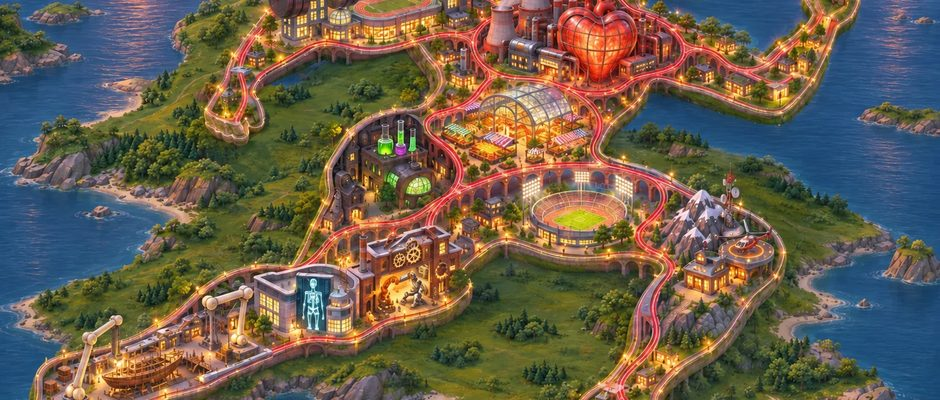
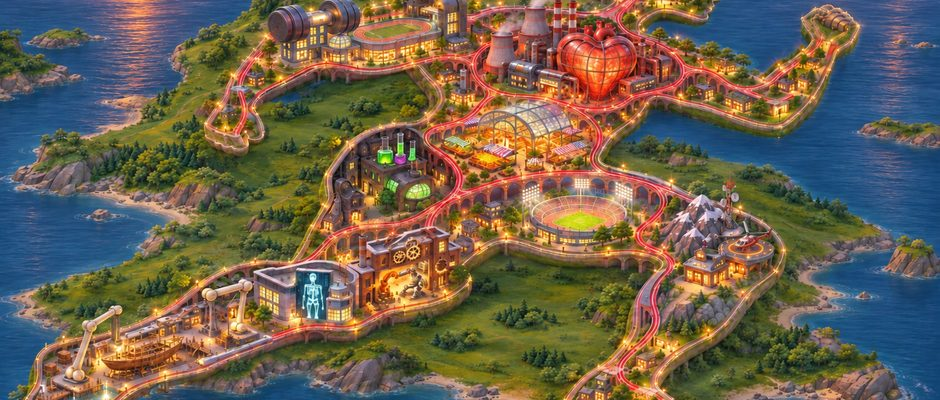
Athletopolis: neue Übersicht mit gemaltem Sonnenuntergang; Orte, Kamera-Ausschnitte und Effekte neu eingemessen
Claude-Session: https://claude.ai/code/session_01W7Q6Rn4idXUk77v555PfgU

diff --git a/sport/klasse9.html b/sport/klasse9.html
@@ -16,12 +16,12 @@
 /* Athletopolis – Sport-Welt Klasse 9. Koordinaten = Bildpunkte im 1536 × 1024-Bild.
    offen:true = ohne Freigabe-Code sichtbar. Themen: pfad = fertige Lernwelt, sonst „kommt bald“. */
 const ORTE = [
-  { id:"herz", name:"Herz-Kraftwerk", icon:"❤", einheit:"E1 · Herz-Kreislauf & Energie", x:965, y:262, crop:[770,115,350,233], veil:[165,115], offen:false,
+  { id:"herz", name:"Herz-Kraftwerk", icon:"❤", einheit:"E1 · Herz-Kreislauf & Energie", x:964, y:350, crop:[791,205,321,214], veil:[165,115], offen:false,
     text:"Hier schlägt das Herz der Stadt: Es pumpt Blut und Sauerstoff durch alle Adern-Bahnen.",
     themen:[{t:"Herz, Lungen- & Körperkreislauf", i:"🫀"},{t:"Energiewege & Herzfrequenz-Zonen", i:"⚡"},{t:"Was meine Pulskurve verrät", i:"📈"},{t:"Ausdauer macht das Herz stark", i:"🏃"}],
     fx:[["glow",900,600,330,"#FF5A3C","beat"],["glow",900,560,90,"#FFF0C0","beat"],["smoke",220,340,26],["smoke",480,165,30],["smoke",640,95,18],["smoke",750,95,18],
         ["water",[1230,190,1500,370],10],["water",[1270,910,1530,1020],6],["flies",[60,600,1480,1000],10]] },
-  { id:"werft", name:"Skelett-Werft", icon:"🦴", einheit:"E2 · Knochen & Gelenke", x:420, y:700, crop:[20,480,780,520], veil:[0,0], offen:true,
+  { id:"werft", name:"Skelett-Werft", icon:"🦴", einheit:"E2 · Knochen & Gelenke", x:420, y:733, crop:[27,505,776,517], veil:[0,0], offen:true,
     text:"In der Werft wird das Skelett gebaut: Röntgen-Klinik und Robo-Werkstatt. Tippe auf ein Gebäude.",
     themen:[
       {id:"kn9", t:"Knochen & Skelett", s:"Röntgen-Klinik", i:"🩻", pfad:"knochen.html", x:964, y:420, bild:"klinik",
@@ -32,41 +32,38 @@ const ORTE = [
         fx:[["sparks",[925,395,1025,475],14,"#FFF0A8"],["glow",975,432,60,"#FFE08A","flick"],["glow",860,520,240,"#FFA53C","pulse"],["smoke",765,90],["smoke",860,70],["smoke",945,125],["sun",190,95],["clouds",85],["water",[0,125,700,180],12],["flies",[60,700,1480,1000],8]]} ],
     fx:[["glow",964,400,120,"#5FE9FF","flick"],["glow",1300,330,110,"#FFA53C","pulse"],["sparks",[1240,250,1380,390],10,"#FFE08A"],["smoke",1150,150,16],
         ["water",[0,0,660,480],22],["water",[780,720,1536,1024],18],["water",[170,790,320,950],6],["flies",[300,250,1400,700],8]] },
-  { id:"stadion", name:"Flutlicht-Stadion", icon:"🏟", einheit:"E2 · Sportverletzungen & Ursachen", x:945, y:545, crop:[785,420,330,220], veil:[150,90], offen:false,
+  { id:"stadion", name:"Flutlicht-Stadion", icon:"🏟", einheit:"E2 · Sportverletzungen & Ursachen", x:943, y:594, crop:[785,471,329,220], veil:[150,90], offen:false,
     text:"Im Stadion passiert’s: Umknicken, Zerrung, Prellung. Hier ermittelst du, was verletzt ist und warum.",
     themen:[{id:"vl9", t:"Sportverletzungen & ihre Ursachen", s:"Lernwelt öffnen", i:"🩹", pfad:"verletzungen.html"}],
     fx:[["glow",390,300,150,"#FFF3C4","flick"],["glow",770,236,150,"#FFF3C4","flick"],["glow",1090,300,150,"#FFF3C4","flick"],["glow",760,580,260,"#FFF3C4","pulse"],["flies",[60,700,1480,1000],8]] },
-  { id:"bergwacht", name:"Bergwacht-Station", icon:"🚁", einheit:"E2 · Erste Hilfe & Vorbeugen", x:1185, y:605, crop:[1000,460,360,240], veil:[150,95], offen:false,
+  { id:"bergwacht", name:"Bergwacht-Station", icon:"🚁", einheit:"E2 · Erste Hilfe & Vorbeugen", x:1185, y:653, crop:[1000,510,360,240], veil:[150,95], offen:false,
     text:"Die Bergwacht ist zur Stelle: Erste Hilfe bei Sportverletzungen und wie du mit Aufwärmen vorbeugst.",
     themen:[{t:"Erste Hilfe & Vorbeugen", i:"⛑"}],
     fx:[["blink",784,40],["blink",800,120],["glow",74,90,140,"#FFF3C4","flick"],["glow",624,740,120,"#FFC65A","pulse"],["glow",944,560,80,"#FFC65A","pulse"],
         ["water",[1300,0,1536,250],10],["water",[1380,640,1536,960],8],["flies",[60,500,1300,1000],10]] },
-  { id:"muskel", name:"Muskel-Fitnesscenter", icon:"🏋", einheit:"E3 · Training & Fitness", x:590, y:195, crop:[400,50,390,260], veil:[200,95], offen:false,
+  { id:"muskel", name:"Muskel-Fitnesscenter", icon:"🏋", einheit:"E3 · Training & Fitness", x:588, y:283, crop:[398,140,389,260], veil:[200,95], offen:false,
     text:"Im Fitnesscenter wird trainiert: Belastung, Erholung und der eigene Trainingsplan.",
     themen:[{t:"Was ist Training? – Fitness messen", i:"⏱"},{t:"Superkompensation", i:"📊"},{t:"Trainingsprinzipien & -methoden", i:"🧩"},{t:"Mein Trainingsplan", i:"📝"},{t:"Hat mein Training gewirkt?", i:"🔁"}],
     fx:[["clouds",200],["glow",1224,376,160,"#FFC65A","pulse"],["glow",700,800,180,"#FFC65A","pulse"],["water",[600,940,760,1024],6],["flies",[60,300,1480,1000],10]] },
-  { id:"markt", name:"Markthalle", icon:"🍎", einheit:"E4 · Ernährung", x:880, y:378, crop:[680,290,330,220], veil:[140,80], offen:false,
+  { id:"markt", name:"Markthalle", icon:"🍎", einheit:"E4 · Ernährung", x:877, y:451, crop:[699,364,299,199], veil:[140,80], offen:false,
     text:"In der Markthalle gibt es alles, was ein Sportlerkörper braucht: Energie, Nährstoffe, Wasser.",
     themen:[{t:"Energie: Was mein Körper verbraucht", i:"⚡"},{t:"Nährstoffe – was steckt im Essen?", i:"🥗"},{t:"Trinken – Wasser für Leistung", i:"💧"},{t:"Essen rund ums Training", i:"🍝"},{t:"Meine Ernährungsanalyse", i:"📋"}],
     fx:[["glow",780,330,280,"#FFC65A","pulse"],["glow",1400,56,120,"#FF5A3C","beat"],["glow",860,940,150,"#FFF3C4","flick"],["flies",[60,600,1480,1000],8]] },
-  { id:"labor", name:"Doping-Labor", icon:"🧪", einheit:"E5 · Doping", x:612, y:452, crop:[480,350,300,200], veil:[100,85], offen:false,
+  { id:"labor", name:"Doping-Labor", icon:"🧪", einheit:"E5 · Doping", x:609, y:512, crop:[477,407,299,199], veil:[100,85], offen:false,
     text:"In der dunklen Seitengasse wird getrickst. Was ist Doping, und warum ist es so gefährlich?",
     themen:[{t:"Was ist Doping?", i:"❓"},{t:"Wirkung & Risiken", i:"⚠"},{t:"Kontrollen, Fair Play & Grauzonen", i:"🔍"},{t:"Debatte: Doping freigeben?", i:"🗣"}],
     fx:[["glow",784,380,110,"#8CFF4A","pulse"],["glow",894,340,80,"#D56BFF","pulse"],["glow",994,340,60,"#8CFF4A","pulse"],["glow",1044,740,140,"#8CFF4A","flick"],
         ["sparks",[740,320,830,420],8,"#D8FFB0"],["sparks",[870,300,920,380],6,"#F0C8FF"],["smoke",1024,440,14],["flies",[60,600,900,1000],8]] },
-  { id:"gehirn", name:"Gehirn-Arena", icon:"🧠", einheit:"E6 · Emotionen, Fair Play & Sinn", x:1075, y:128, crop:[930,0,300,200], veil:[120,95], offen:false,
+  { id:"gehirn", name:"Gehirn-Arena", icon:"🧠", einheit:"E6 · Emotionen, Fair Play & Sinn", x:1075, y:231, crop:[928,106,298,199], veil:[120,95], offen:false,
     text:"In der Arena im Kopf geht es um Gefühle im Sport, Fair Play und die Frage: Warum treibe ich Sport?",
     themen:[{t:"Wettkampf & Fair Play", i:"🤝"},{t:"Emotionen im Sport", i:"😤"},{t:"Emotionen steuern & Mut", i:"🧘"},{t:"Warum treiben wir Sport?", i:"🧭"},{t:"Meine Sport-Biografie & Motive", i:"📖"}],
     fx:[["glow",740,360,320,"#FF9EC4","pulse"],["glow",380,140,110,"#FFF3C4","flick"],["glow",1090,160,110,"#FFF3C4","flick"],["clouds",80],
         ["water",[1200,120,1530,1000],22],["water",[640,850,1100,1000],8],["flies",[60,300,700,1000],10]] }
 ];
-const STADT_FX = [["sun",236,74,false],["clouds",55],["glow",955,255,95,"#FF5A3C","beat"],["glow",1075,80,85,"#FF9EC4","pulse"],["glow",655,400,55,"#8CFF4A","pulse"],["glow",520,665,42,"#5FE9FF","flick"],
-  ["glow",650,650,60,"#FFA53C","pulse"],["smoke",868,148],["smoke",905,190],["blink",1196,468],["glow",930,540,80,"#FFF3C4","flick"],
-  ["water",[170,95,320,230],12],["water",[0,100,560,200],8],["water",[1260,100,1536,200],10],["water",[0,330,120,620],6],["water",[1300,420,1536,560],8],
-  ["water",[1350,640,1536,900],8],["water",[200,880,900,1024],12],["water",[1100,950,1536,1024],6],["flies",[420,150,1300,900],12]];
+const STADT_FX = [["sun", 232, 80, false], ["clouds", 70], ["glow", 957, 341, 95, "#FF5A3C", "beat"], ["glow", 1074, 182, 85, "#FF9EC4", "pulse"], ["glow", 656, 470, 55, "#8CFF4A", "pulse"], ["glow", 521, 700, 42, "#5FE9FF", "flick"], ["glow", 650, 690, 60, "#FFA53C", "pulse"], ["smoke", 867, 243], ["smoke", 905, 286], ["blink", 1196, 524], ["glow", 929, 589, 80, "#FFF3C4", "flick"], ["water", [150, 100, 330, 330], 16], ["water", [0, 110, 1536, 200], 14], ["water", [1250, 120, 1536, 300], 10], ["water", [0, 330, 130, 560], 6], ["water", [1330, 450, 1536, 620], 8], ["water", [1300, 700, 1536, 960], 8], ["water", [150, 900, 880, 1024], 12], ["water", [1150, 960, 1536, 1024], 6], ["flies", [420, 250, 1300, 950], 12]];
 
 SPORTWELT.start({ k:9, name:"Athletopolis", untertitel:"Profil Sport · Klasse 9", dir:"welt9", uebersicht:"stadt", zurueck:"Stadt",
-  startBlick:{x:768, y:560}, fx:STADT_FX, orte:ORTE });
+  startBlick:{x:767, y:612}, fx:STADT_FX, orte:ORTE });
 </script>
 </body>
 </html>
